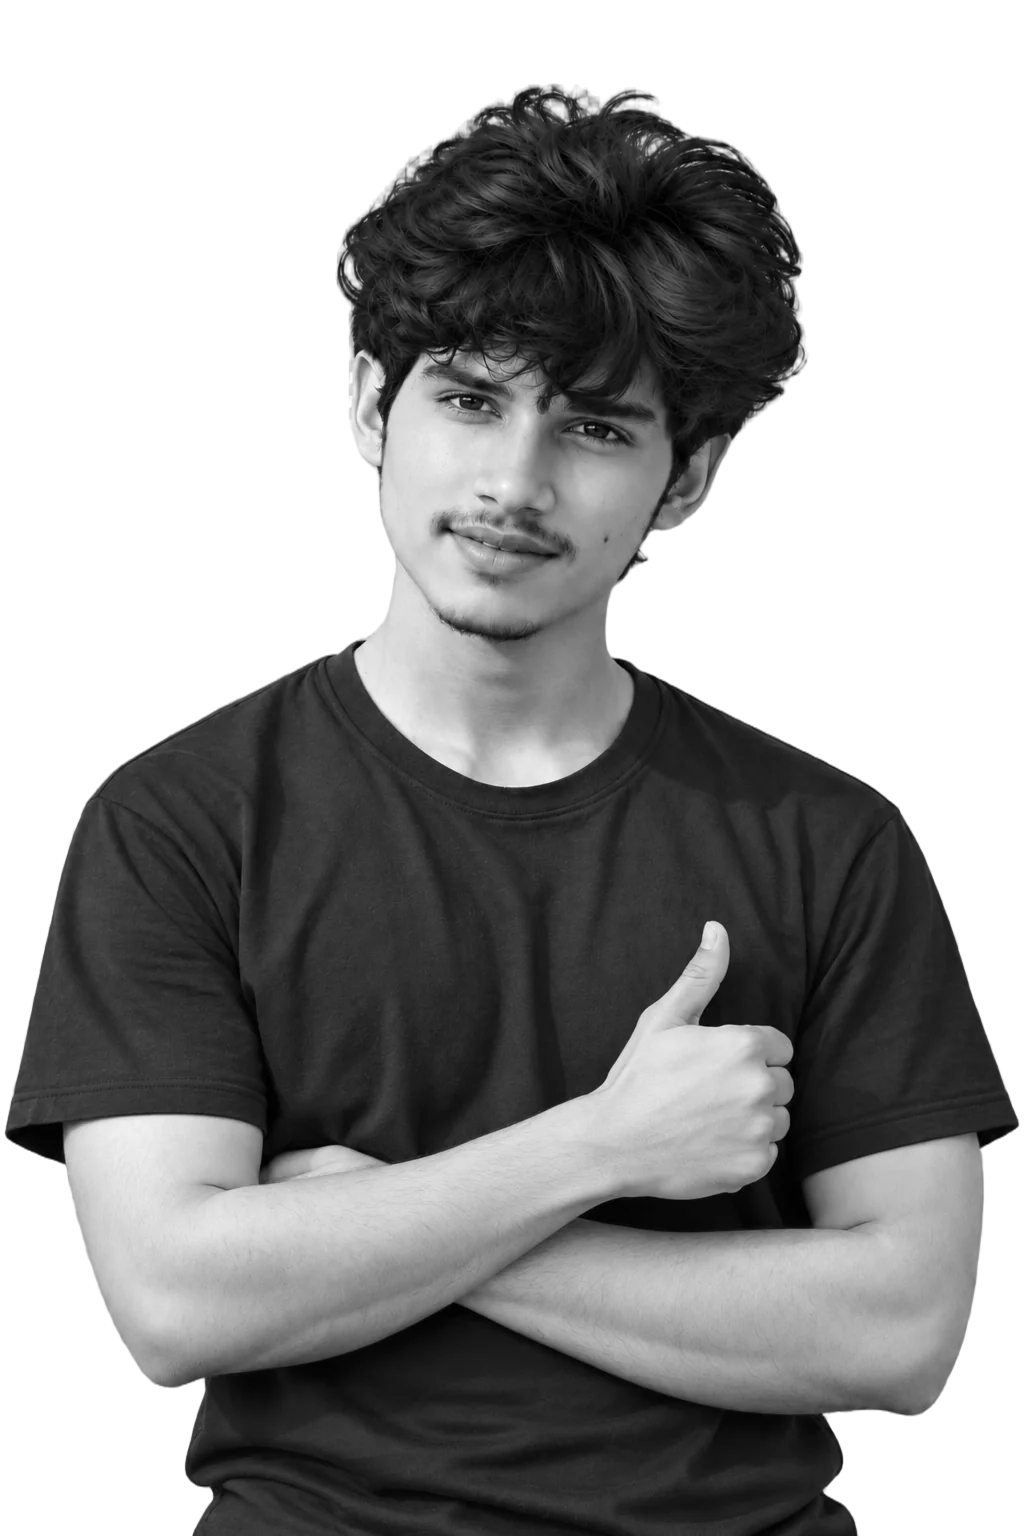
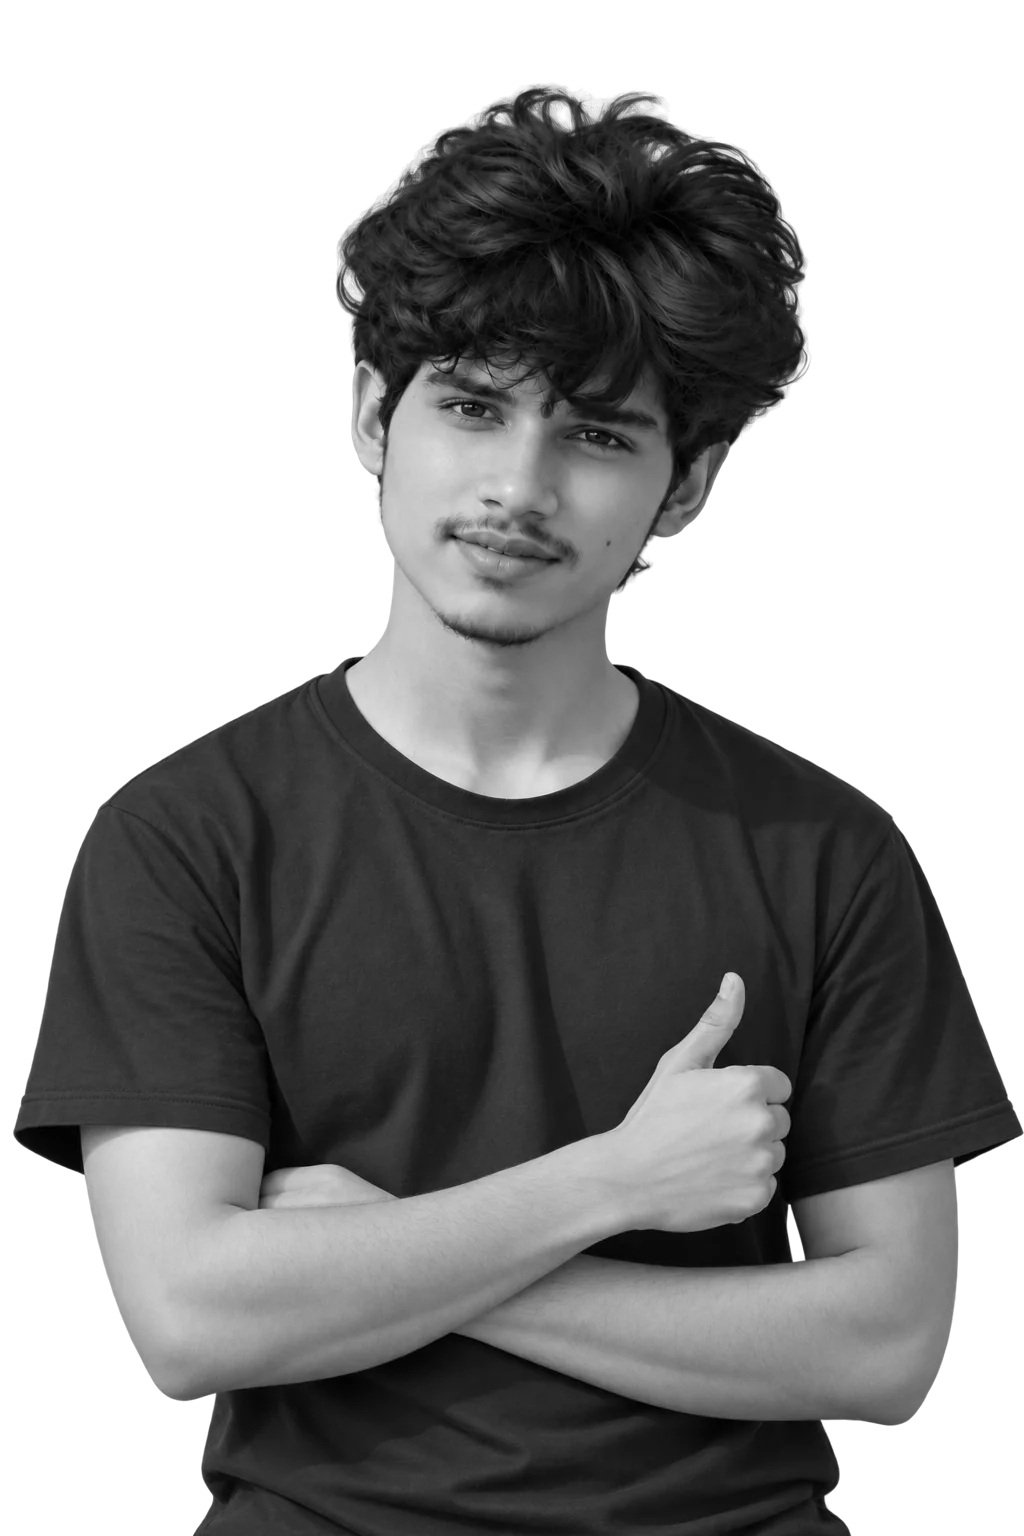
Replace the eighth pose image
The new 8_D6.png already has real transparency, so make_cutouts.py now
uses a source's own alpha when it has one instead of running the model,
and can process just the poses named on the command line.

diff --git a/scripts/make_cutouts.py b/scripts/make_cutouts.py
@@ -1,13 +1,15 @@
-"""Remove the painted-in checkerboard from the pose images and export transparent WebPs.
+"""Turn the pose images into transparent WebPs for the site.
 
-The PNGs in scroll-images(by-order)/ have no alpha channel: the "transparent"
-checkerboard is part of the picture. This uses the BiRefNet portrait model
-(via rembg) to find the person, then re-estimates the edge colours so hair
-doesn't keep a light checkerboard fringe.
+Most PNGs in scroll-images(by-order)/ have no alpha channel: the "transparent"
+checkerboard is part of the picture. For those, the BiRefNet portrait model
+(via rembg) finds the person, then the edge colours are re-estimated so hair
+doesn't keep a light checkerboard fringe. A PNG that already has real
+transparency is used as it is, with its alpha tidied up.
 
 Usage (from the repo root):
     python3 -m venv .venv && .venv/bin/pip install "rembg[cpu]==2.0.61" pymatting pillow
-    .venv/bin/python scripts/make_cutouts.py
+    .venv/bin/python scripts/make_cutouts.py          # all poses
+    .venv/bin/python scripts/make_cutouts.py 8_D6     # only the poses named
 Optional: --masks <dir> reuses already computed masks named <pose>.png.
 """
 import argparse
@@ -29,37 +31,61 @@ def model_mask(img, session):
     return remove(img, session=session, only_mask=True, post_process_mask=False)
 
 
-def cutout(img, mask):
-    rgb = np.asarray(img.convert("RGB"), dtype=np.float64) / 255.0
-    alpha = np.asarray(mask.convert("L"), dtype=np.float64) / 255.0
+def has_transparency(img):
+    return img.convert("RGBA").getchannel("A").getextrema()[0] == 0
+
+
+def snap(alpha):
     # Snap near-certain values so flat areas stay clean.
+    alpha = alpha.copy()
     alpha[alpha < 0.03] = 0.0
     alpha[alpha > 0.97] = 1.0
-    fg = estimate_foreground_ml(rgb, alpha)
+    return alpha
+
+
+def to_image(rgb, alpha):
     # The photos are black and white; keep the result neutral grey.
-    grey = fg.mean(axis=2, keepdims=True).repeat(3, axis=2)
+    grey = rgb.mean(axis=2, keepdims=True).repeat(3, axis=2)
     rgba = np.dstack([grey, alpha])
     rgba[alpha == 0] = 0.0
     return Image.fromarray((np.clip(rgba, 0, 1) * 255 + 0.5).astype(np.uint8))
 
 
+def cutout(img, mask):
+    rgb = np.asarray(img.convert("RGB"), dtype=np.float64) / 255.0
+    alpha = snap(np.asarray(mask.convert("L"), dtype=np.float64) / 255.0)
+    return to_image(estimate_foreground_ml(rgb, alpha), alpha)
+
+
+def tidy(img):
+    rgba = np.asarray(img.convert("RGBA"), dtype=np.float64) / 255.0
+    return to_image(rgba[..., :3], snap(rgba[..., 3]))
+
+
 def main():
     parser = argparse.ArgumentParser()
+    parser.add_argument("poses", nargs="*", help="only process these poses, e.g. 8_D6 (default: all)")
     parser.add_argument("--masks", type=Path, help="directory of precomputed masks")
     args = parser.parse_args()
 
+    paths = sorted(SRC.glob("*_D*.png"), key=lambda p: int(p.stem.split("_")[0]))
+    if args.poses:
+        paths = [p for p in paths if p.stem in args.poses]
     session = None
-    if not args.masks:
-        from rembg import new_session
-
-        # CPU only: the CoreML provider can hang for a long time compiling this model.
-        session = new_session("birefnet-portrait", providers=["CPUExecutionProvider"])
-
     OUT.mkdir(parents=True, exist_ok=True)
-    for path in sorted(SRC.glob("*_D*.png"), key=lambda p: int(p.stem.split("_")[0])):
-        img = Image.open(path).convert("RGB")
-        mask = Image.open(args.masks / f"{path.stem}.png") if args.masks else model_mask(img, session)
-        result = cutout(img, mask)
+    for path in paths:
+        img = Image.open(path)
+        if has_transparency(img):
+            result = tidy(img)
+        elif args.masks:
+            result = cutout(img, Image.open(args.masks / f"{path.stem}.png"))
+        else:
+            if session is None:
+                from rembg import new_session
+
+                # CPU only: the CoreML provider can hang for a long time compiling this model.
+                session = new_session("birefnet-portrait", providers=["CPUExecutionProvider"])
+            result = cutout(img, model_mask(img.convert("RGB"), session))
         for width in WIDTHS:
             size = (width, round(result.height * width / result.width))
             target = OUT / f"{path.stem}-{width}.webp"
